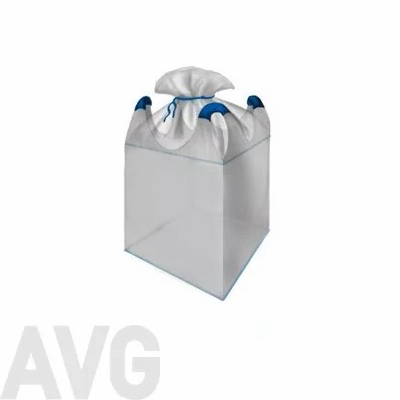
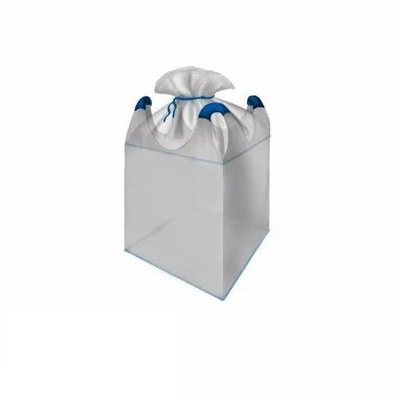
Перезалив всех изображений
Обновлены картинки в Каталоге, на Главной

Changed region(s): [[0.0, 0.81, 0.42, 1.0]]

diff --git a/client/src/styles/main.css b/client/src/styles/main.css
@@ -411,8 +411,8 @@ h3 {
   -webkit-box-shadow: 5px 5px 9px -1px rgba(34, 60, 80, 0.2);
 
   box-shadow: 5px 5px 9px -1px rgba(34, 60, 80, 0.2);
-
   position: relative;
+  background: #fff;
 }
 
 /* три блока ниже -- увеличение при наведении */
@@ -441,9 +441,10 @@ h3 {
   width: 100%;
   border-radius: 20px 20px 0 0;
   /* position: relative; */
-  /* высота и бек временно, для страницы Каталог, пока нет картинок */
-  /* height: 269px; */
-  /* background-color: aliceblue; */
+
+  height: 269px;
+  object-fit: contain;
+  /* -ms-background-size: cover; */
 }
 
 .catalog-btn__wrap {

diff --git a/client/src/pages/MainPage.jsx b/client/src/pages/MainPage.jsx
@@ -4,8 +4,8 @@ import { BIG_BAG, CALL_REQUEST, CATALOG_PATH, POLY_BAG } from "../consts";
 import Footer from "../components/Footer";
 import benefit from "../assets/benefit.png";
 import novopack from "../assets/novopack.png";
-import exampleBug from "../assets/example-bug.png";
-import bigbag from "../assets/bigbag.webp";
+import exampleBug from "../assets/5595.jpg";
+import bigbag from "../assets/bb_main.jpg";
 
 import mainImg from "../assets/main_img.jpg";
 
